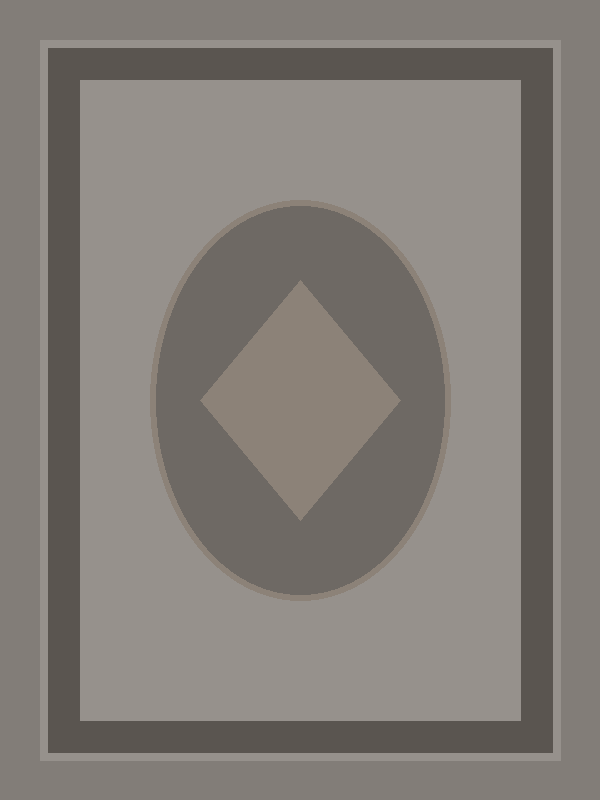
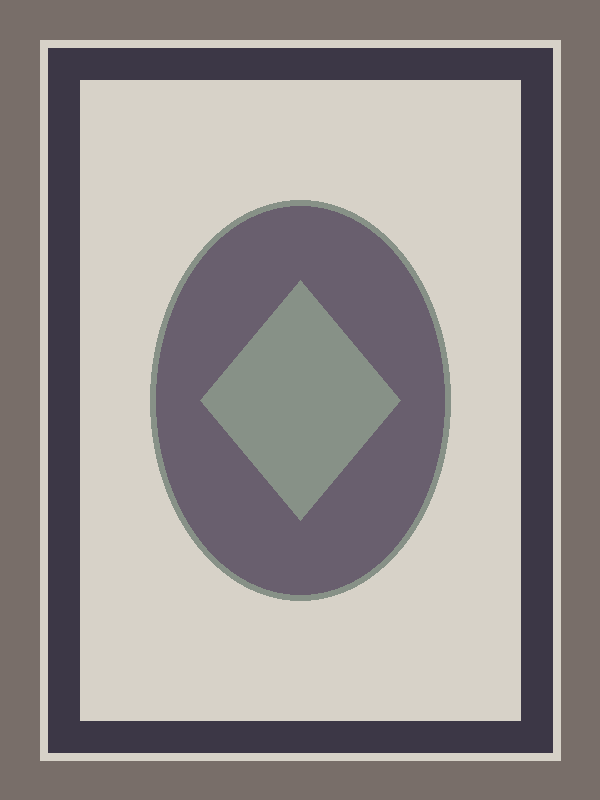
fix: enforce visual stimulus contamination limits

diff --git a/apps/api/tests/test_visual_preferences.py b/apps/api/tests/test_visual_preferences.py
@@ -83,6 +83,70 @@ def test_visual_aggregator_canonical_poles():
     for k in ["color_energy", "contrast", "visual_complexity", "structural_order", "rhythm_repetition", "form_language"]:
         assert map_high[k]["value"] == 1.00
 
+def validate_stimulus_metrics(
+    target_dim: str,
+    map_a: dict,
+    map_b: dict,
+    target_min: float = STIMULUS_TARGET_DELTA_MIN,
+    max_non_target_limit: float = STIMULUS_MAX_NON_TARGET_DELTA,
+) -> dict:
+    """Authoritative validation helper for 9D visual preference stimulus pairs."""
+    val_a = map_a.get(target_dim)
+    val_b = map_b.get(target_dim)
+    if val_a is None or val_b is None:
+        target_delta = 0.0
+        target_pass = False
+    else:
+        target_delta = round(val_b - val_a, 4)
+        target_pass = target_delta >= target_min
+
+    non_target_deltas = {
+        dim: round(abs(map_b[dim] - map_a[dim]), 4)
+        for dim in map_a.keys()
+        if dim != target_dim and map_a[dim] is not None and map_b[dim] is not None
+    }
+    max_non_target_delta = max(non_target_deltas.values()) if non_target_deltas else 0.0
+    largest_non_target_dim = [k for k, v in non_target_deltas.items() if v == max_non_target_delta][0] if non_target_deltas else "none"
+    mean_non_target_delta = round(sum(non_target_deltas.values()) / len(non_target_deltas), 4) if non_target_deltas else 0.0
+
+    contamination_pass = max_non_target_delta <= max_non_target_limit
+    is_valid = target_pass and contamination_pass
+
+    return {
+        "target_dim": target_dim,
+        "val_a": val_a,
+        "val_b": val_b,
+        "target_delta": target_delta,
+        "target_pass": target_pass,
+        "non_target_deltas": non_target_deltas,
+        "max_non_target_delta": max_non_target_delta,
+        "largest_non_target_dim": largest_non_target_dim,
+        "mean_non_target_delta": mean_non_target_delta,
+        "contamination_pass": contamination_pass,
+        "is_valid": is_valid,
+    }
+
+
+def test_negative_stimulus_validator_contamination_rejection():
+    """Negative test: Prove high target_delta (0.80) does NOT excuse contamination (0.30 > 0.15)."""
+    map_a = {
+        "color_energy": 0.10, "color_diversity": 0.40, "contrast": 0.20, "warmth": 0.50,
+        "visual_complexity": 0.40, "structural_order": 0.70, "rhythm_repetition": 0.50,
+        "focal_strength": 0.40, "form_language": 0.50
+    }
+    map_b = {
+        "color_energy": 0.90, # Target Delta = 0.80 (>= 0.35)
+        "color_diversity": 0.40,
+        "contrast": 0.50, # Non-target Delta = 0.30 (> 0.15 FAIL)
+        "warmth": 0.50, "visual_complexity": 0.40, "structural_order": 0.70,
+        "rhythm_repetition": 0.50, "focal_strength": 0.40, "form_language": 0.50
+    }
+    val_res = validate_stimulus_metrics("color_energy", map_a, map_b)
+    assert val_res["target_pass"] is True
+    assert val_res["contamination_pass"] is False
+    assert val_res["is_valid"] is False, "Synthetic stimulus with 0.30 contamination must fail validation"
+
+
 def test_cv_engine_validation_on_generated_stimuli():
     hashes = generate_and_save_all_stimuli(TEST_STIMULI_DIR)
     assert len(hashes) == 12
@@ -107,38 +171,26 @@ def test_cv_engine_validation_on_generated_stimuli():
         map_a = {d["key"]: d["value"] for d in dims_a}
         map_b = {d["key"]: d["value"] for d in dims_b}
 
-        val_a = map_a[target_dim]
-        val_b = map_b[target_dim]
-        target_delta = round(val_b - val_a, 4)
+        metrics = validate_stimulus_metrics(target_dim, map_a, map_b)
+        results[key] = metrics
+        results[key]["map_a"] = map_a
+        results[key]["map_b"] = map_b
 
-        # Compute non-target deltas
-        non_target_deltas = {
-            dim: round(abs(map_b[dim] - map_a[dim]), 4)
-            for dim in map_a.keys()
-            if dim != target_dim and map_a[dim] is not None and map_b[dim] is not None
-        }
-        max_non_target_delta = max(non_target_deltas.values())
-
-        results[key] = {
-            "val_a": val_a,
-            "val_b": val_b,
-            "target_delta": target_delta,
-            "non_target_deltas": non_target_deltas,
-            "max_non_target_delta": max_non_target_delta,
-            "map_a": map_a,
-            "map_b": map_b
-        }
-
-        print(f"Card {key} (Target: {target_dim}): A={val_a}, B={val_b}, Delta={target_delta}, Max Non-Target={max_non_target_delta}")
+        print(
+            f"Card {key} (Target: {target_dim}): A={metrics['val_a']}, B={metrics['val_b']}, "
+            f"Delta={metrics['target_delta']}, Max Non-Target={metrics['max_non_target_delta']} ({metrics['largest_non_target_dim']})"
+        )
 
         # Assert target delta >= STIMULUS_TARGET_DELTA_MIN (0.35)
-        assert target_delta >= STIMULUS_TARGET_DELTA_MIN, f"{key} target delta {target_delta} < {STIMULUS_TARGET_DELTA_MIN} (A={val_a}, B={val_b})"
+        assert metrics["target_pass"], f"{key} target delta {metrics['target_delta']} < {STIMULUS_TARGET_DELTA_MIN}"
 
-        # Assert max_non_target_delta <= STIMULUS_MAX_NON_TARGET_DELTA (0.15) for structural cards V3, V4, V5, V6
-        if key in ["V3_VISUAL_COMPLEXITY", "V4_STRUCTURAL_ORDER", "V5_RHYTHM_REPETITION", "V6_FORM_LANGUAGE"]:
-            assert max_non_target_delta <= STIMULUS_MAX_NON_TARGET_DELTA, (
-                f"{key} max non-target delta {max_non_target_delta} > {STIMULUS_MAX_NON_TARGET_DELTA}"
-            )
+        # Assert max_non_target_delta <= STIMULUS_MAX_NON_TARGET_DELTA (0.15) for ALL CARDS
+        assert metrics["contamination_pass"], (
+            f"{key} max non-target delta {metrics['max_non_target_delta']} > {STIMULUS_MAX_NON_TARGET_DELTA} ({metrics['largest_non_target_dim']})"
+        )
+
+        # Assert overall validity
+        assert metrics["is_valid"] is True
 
     # Check D6/D7 decoupling contamination
     v4_d7_contam = round(abs(results["V4_STRUCTURAL_ORDER"]["map_b"]["rhythm_repetition"] - results["V4_STRUCTURAL_ORDER"]["map_a"]["rhythm_repetition"]), 4)

diff --git a/apps/api/app/domain/preferences/visual_stimuli.py b/apps/api/app/domain/preferences/visual_stimuli.py
@@ -157,7 +157,7 @@ class ProceduralStimulusGenerator:
 
     # -----------------------------------------------------------------
     # V1: Color Energy (BASE_A Medallion)
-    # A = muted/calm, B = vivid/energetic
+    # A = desaturated calm chroma, B = vivid energetic chroma (matching L* structure)
     # -----------------------------------------------------------------
     @classmethod
     def _render_v1(cls, variant: str) -> Tuple[str, Image.Image]:
@@ -166,17 +166,19 @@ class ProceduralStimulusGenerator:
         draw = ImageDraw.Draw(img)
 
         if variant == "A":
-            bg = (130, 125, 120)
-            border = (90, 85, 80)
-            inner = (150, 145, 140)
-            med = (110, 105, 100)
-            accent = (140, 130, 120)
+            # Desaturated muted tones matching L* lightness of Variant B
+            bg = (120, 110, 105)
+            border = (60, 55, 70)
+            inner = (215, 210, 200)
+            med = (105, 95, 110)
+            accent = (135, 145, 135)
         else:
-            bg = (220, 30, 20)
-            border = (20, 40, 160)
-            inner = (240, 200, 10)
-            med = (180, 20, 140)
-            accent = (10, 180, 50)
+            # Saturated vivid energetic tones
+            bg = (215, 45, 30)       # Crimson
+            border = (30, 50, 195)    # Cobalt
+            inner = (245, 205, 35)    # Gold
+            med = (175, 35, 185)     # Magenta
+            accent = (25, 175, 75)    # Emerald
 
         draw.rectangle([0, 0, W, H], fill=bg)
         draw.rectangle([40, 40, W-40, H-40], fill=border, outline=inner, width=8)
@@ -203,7 +205,7 @@ class ProceduralStimulusGenerator:
 
     # -----------------------------------------------------------------
     # V2: Contrast (BASE_B All-Over)
-    # A = soft separation, B = strong separation
+    # A = soft separation, B = strong separation (exact same warm hue family)
     # -----------------------------------------------------------------
     @classmethod
     def _render_v2(cls, variant: str) -> Tuple[str, Image.Image]:
@@ -212,13 +214,15 @@ class ProceduralStimulusGenerator:
         draw = ImageDraw.Draw(img)
 
         if variant == "A":
-            bg = (140, 135, 130)
-            motif_c = (115, 110, 105)
-            border = (125, 120, 115)
+            # Soft luminance contrast (warm terracotta theme with edge definition)
+            bg = (140, 100, 60)
+            motif_c = (205, 165, 125)
+            border = (175, 135, 95)
         else:
-            bg = (15, 20, 30)
-            motif_c = (245, 245, 250)
-            border = (220, 220, 230)
+            # High luminance contrast (same warm amber/terracotta theme)
+            bg = (35, 18, 8)
+            motif_c = (245, 205, 150)
+            border = (210, 170, 120)
 
         draw.rectangle([0, 0, W, H], fill=bg)
         draw.rectangle([30, 30, W-30, H-30], fill=bg, outline=border, width=6)
@@ -238,7 +242,7 @@ class ProceduralStimulusGenerator:
 
         bg_h = cls.hex_color(bg)
         border_h = cls.hex_color(border)
-        motifs_str = "\n  ".join(motifs_svg)
+        motifs_str = "\n  ".join(svg_motifs if 'svg_motifs' in locals() else motifs_svg)
 
         svg = f'''<svg xmlns="http://www.w3.org/2000/svg" viewBox="0 0 {W} {H}">
   <rect width="{W}" height="{H}" fill="{bg_h}"/>

diff --git a/docs/visual-stimuli-v1.md b/docs/visual-stimuli-v1.md
@@ -88,12 +88,12 @@ All controlled visual stimuli are top-down abstract carpet designs rendered proc
 
 ## 4. Calibrated Measured Style DNA Values & Asset Hashes
 
-| Card | Target Dim | Measured A | Measured B | Target Delta | $D_7$ Contam | SHA-256 (A) | SHA-256 (B) |
-|---|---|---|---|---|---|---|---|
[6 lines of base64/hex data omitted]
+| Card | Target Dim | Measured A | Measured B | Target Delta | Max Non-Target | Largest Non-Target | Validation | SHA-256 (A) | SHA-256 (B) |
+|---|---|---|---|---|---|---|---|---|---|
[6 lines of base64/hex data omitted]
 
